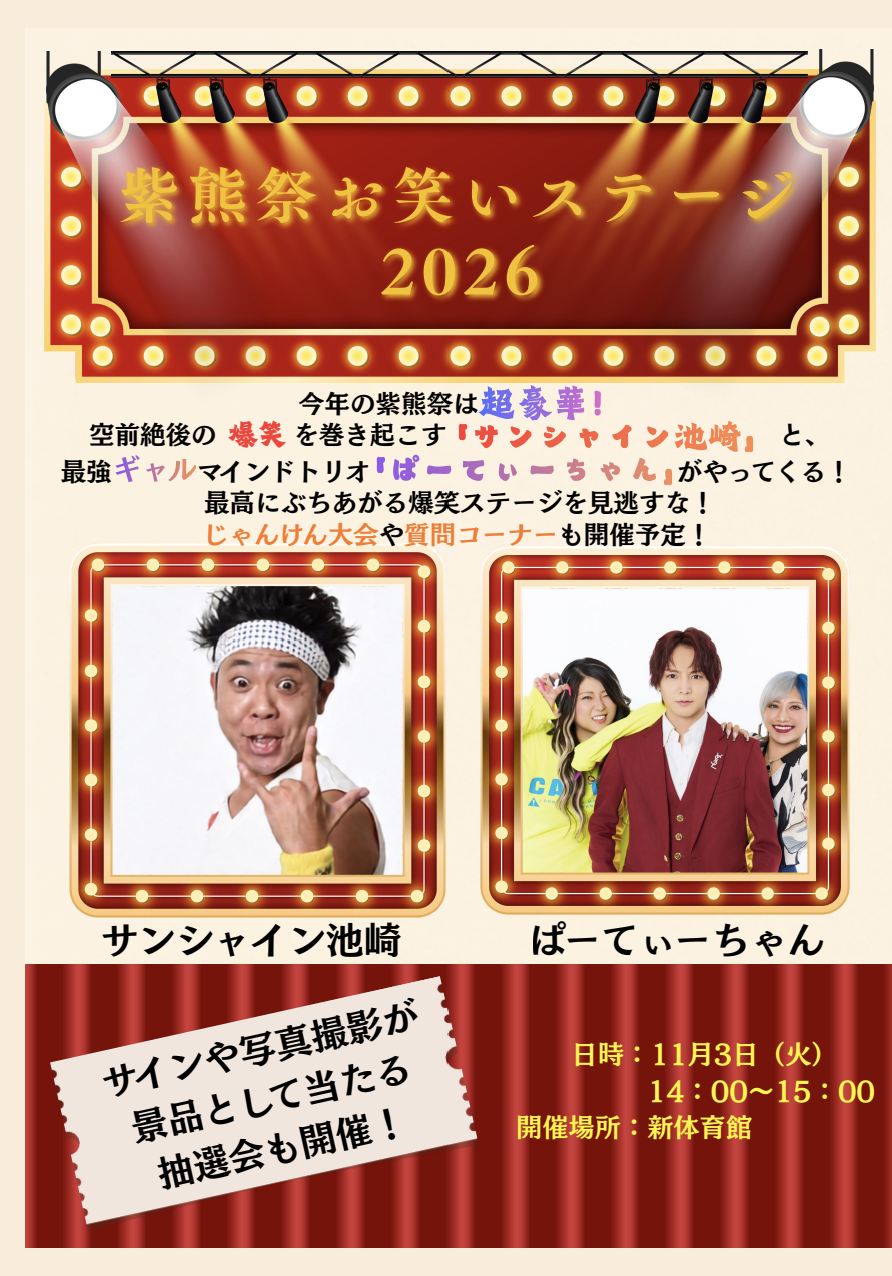
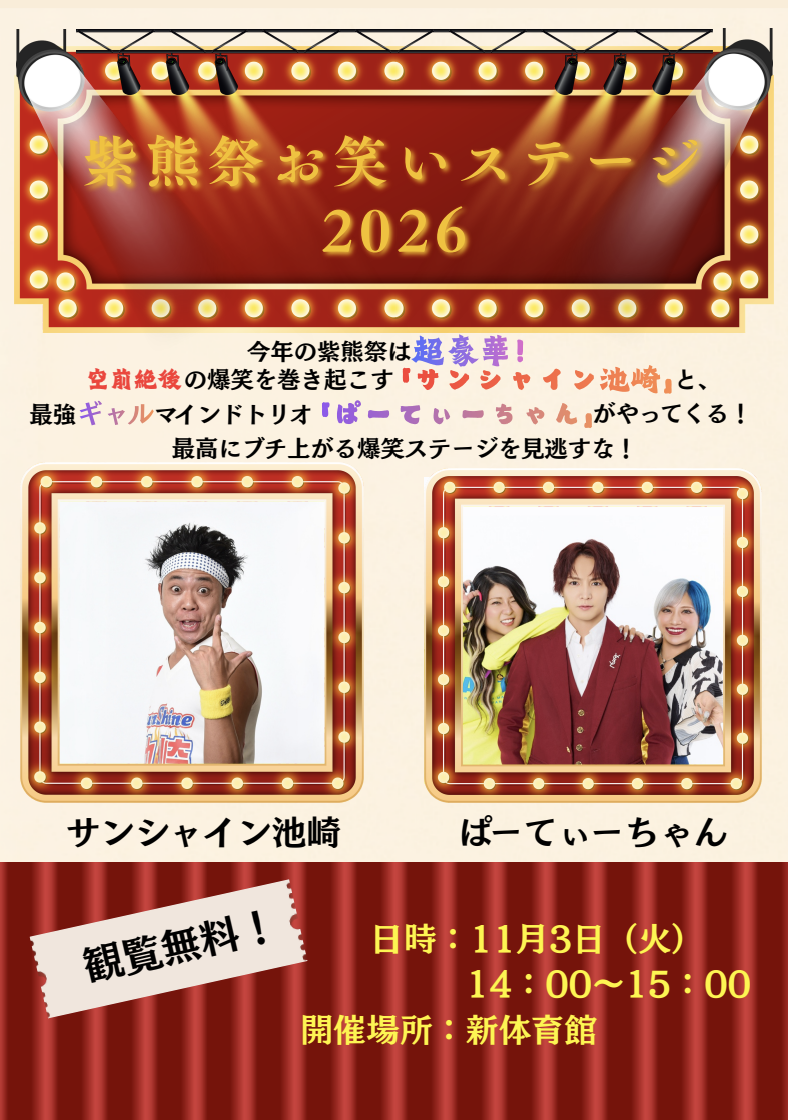
a

diff --git a/src/pages/HomePage.jsx b/src/pages/HomePage.jsx
@@ -393,7 +393,7 @@ const TIMETABLE = {
   },
   {
     time: '14:00',
-    endTime: '15:40',
+    endTime: '15:00',
     name: 'お笑いステージ2026',
     stage: 'その他の場所',
     place: '新体育館',
